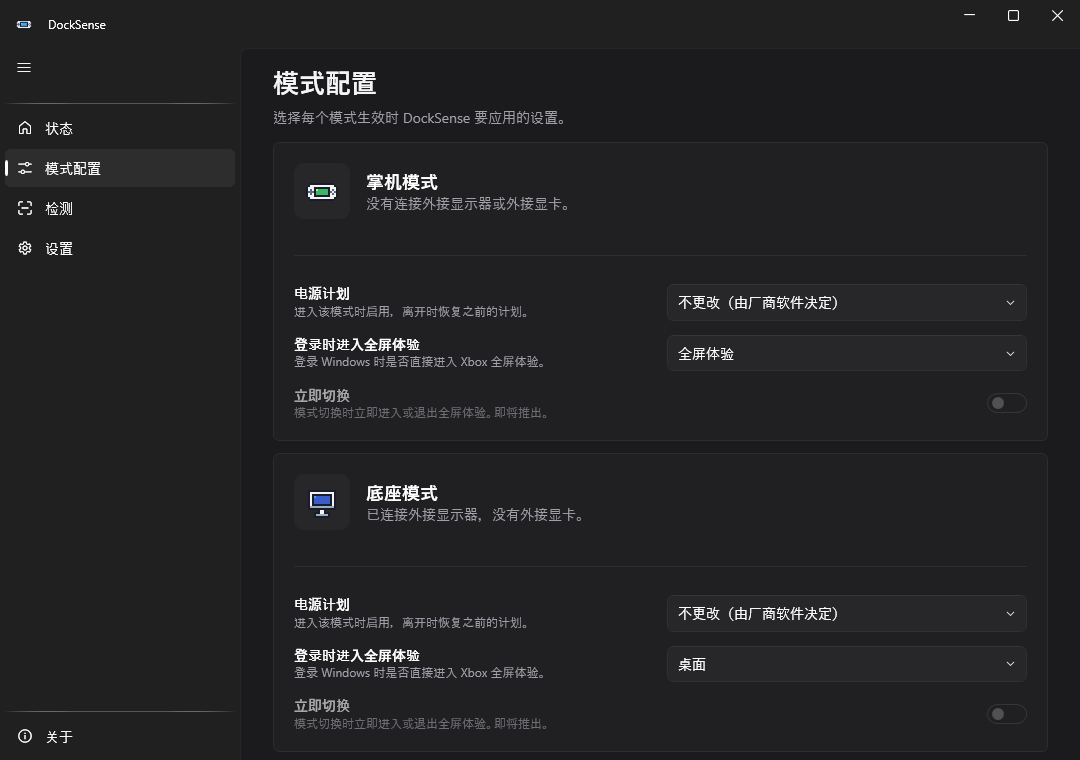
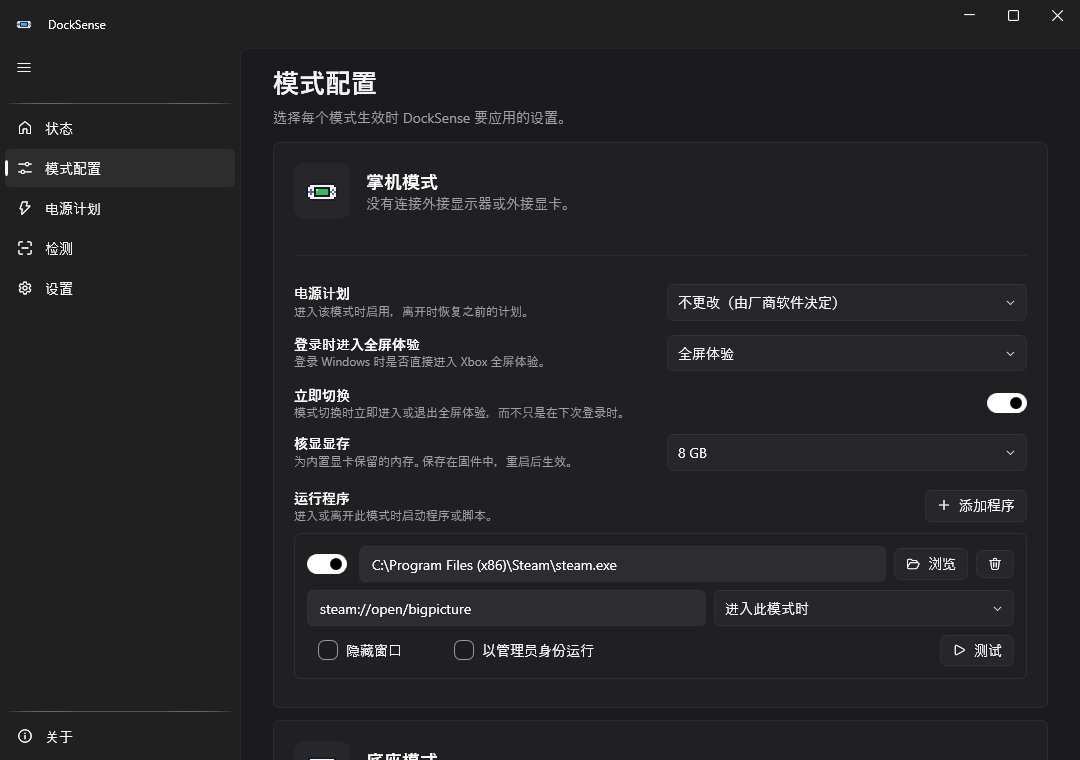
Release v0.2
CHANGELOG entry, both READMEs (features, usage, configuration keys, FAQ,
roadmap), new screenshots in English and Chinese including the Power plans
page, and version 0.2.0.

diff --git a/README.md b/README.md
@@ -22,7 +22,7 @@
 
 ---
 
-DockSense lives in your system tray. It watches for external GPUs, external displays and power changes, works out how your handheld is being used, and applies the matching **power plan** and **Xbox full screen experience** setting. You don't have to switch anything by hand when you dock or undock.
+DockSense lives in your system tray. It watches for external GPUs, external displays and power changes, and works out how your handheld is being used. Then it applies the matching **power plan** and **Xbox full screen experience**, sets the **iGPU memory** and starts **your own programs**. You don't have to switch anything by hand when you dock or undock.
 
 It started with one bug hunt: an ASUS ROG Xbox Ally X docked to an RTX 5090 was stuck at ~50 FPS with the CPU throttled to **2 GHz / 12 W**, and only while a game was in the foreground.
 
@@ -68,11 +68,14 @@ The overrides are only provisioned for *Balanced*-type plans, and `powercfg` can
 - 🔌 **Automatic mode detection.** Handheld, Docked (external display) or eGPU (Thunderbolt / USB4 / OCuLink), with debouncing so a dock being plugged in or out never causes flapping.
 - ⚡ **Per-mode power plans.** DockSense restores your previous plan when a mode ends, and creates an "eGPU-safe" plan that is immune to the Game Mode throttle.
 - 🛡 **Keeps the plan you chose.** If vendor software (e.g. Armoury Crate) switches the plan back, DockSense re-applies it, and it backs off if something keeps fighting.
-- 🎮 **Xbox full screen experience per mode.** For example, boot into the full screen experience as a handheld and into the desktop when docked.
+- 🛠 **Power plan editor.** Create plans from any existing plan, edit the settings that matter on a handheld (processor state, EPP, boost mode, max frequency, core preference, display and sleep timeouts) for plugged-in and on-battery use, and rename or delete plans. Hidden High Performance-type plans are listed too.
+- 🎮 **Xbox full screen experience per mode.** For example, use the full screen experience as a handheld and the desktop when docked. DockSense can switch it **right away** when the mode changes, not only at the next sign-in.
+- 🚀 **Run programs on mode changes.** Start a program, script or URL when a mode begins or ends (or when DockSense starts in it), with arguments, a hidden window or administrator rights.
+- 🧠 **iGPU memory per mode** (ASUS handhelds such as the ROG Xbox Ally X). For example, give the built-in GPU 8 GB as a handheld and the minimum with an eGPU, so games get that RAM back. The firmware applies it at the next restart, and DockSense tells you when one is needed.
 - 🔔 **Native Windows notifications** when the mode changes, showing the detected GPU and the plan that was applied.
 - 🩺 **Diagnostics.** The status page shows whether the Game Mode throttle affects your current plan. A one-click report lists adapters, displays, plans and hidden overrides.
 - 🌐 **English and 简体中文**, light and dark theme, and pixel-art tray icons for every state.
-- 🪶 **No admin rights, no driver, no service.** It uses only documented Windows power and device APIs.
+- 🪶 **No admin rights, no driver, no service.** It uses documented Windows APIs, plus the ASUS ACPI interface (the one Armoury Crate uses) for the optional iGPU memory setting.
 
 ## How it works
 
@@ -86,7 +89,7 @@ flowchart LR
     G --> W["Settle<br/>(default 5 s)"]
     D --> W
     H --> W
-    W --> A["Apply profile<br/>power plan · full screen experience"]
+    W --> A["Apply profile<br/>power plan · full screen experience<br/>iGPU memory · programs"]
     A --> N["Notification"]
 ```
 
@@ -105,8 +108,12 @@ Some details:
 
 <table>
   <tr>
-    <td width="50%"><img src="docs/images/profiles.png" alt="Mode profiles" /><p align="center"><b>Mode profiles</b>: power plan and full screen experience per mode</p></td>
-    <td width="50%"><img src="docs/images/settings.png" alt="Settings" /><p align="center"><b>Settings</b>: language, theme, startup, notifications</p></td>
+    <td width="50%"><img src="docs/images/profiles.png" alt="Mode profiles" /><p align="center"><b>Mode profiles</b>: power plan, full screen experience, iGPU memory and programs per mode</p></td>
+    <td width="50%"><img src="docs/images/plans.png" alt="Power plans" /><p align="center"><b>Power plans</b>: create, edit and delete plans</p></td>
+  </tr>
+  <tr>
+    <td><img src="docs/images/settings.png" alt="Settings" /><p align="center"><b>Settings</b>: language, theme, startup, notifications</p></td>
+    <td></td>
   </tr>
   <tr>
     <td><img src="docs/images/toast.png" alt="Notification" /><p align="center"><b>Notification</b> when the mode changes</p></td>
@@ -140,10 +147,12 @@ Some details:
 
 - **Tray icon:** left-click opens the window. Right-click lets you pause automatic switching, re-check now, or exit.
 - **Status:** the current mode, the active plan, the Game Mode check, detected adapters and displays, and recent activity.
-- **Mode profiles:** pick the power plan and the full screen experience behavior for each mode. The choices are:
-  - *Don't change*: your vendor software decides
-  - *DockSense Performance*: the eGPU-safe plan
-  - any existing Windows plan
+- **Mode profiles:** for each mode, pick:
+  - the power plan: *Don't change* (your vendor software decides), *DockSense Performance* (the eGPU-safe plan), or any Windows plan, including hidden ones
+  - the full screen experience at sign-in, and whether to **switch immediately** when the mode changes
+  - the **iGPU memory** (on supported ASUS devices; applies after a restart)
+  - **programs to run** when the mode begins or ends. **Test** starts one right away.
+- **Power plans:** create a plan from any existing one (High performance-based plans avoid the Game Mode throttle), edit its plugged-in and on-battery settings, rename or delete it.
 - **Detection:** settle time, "Docked only when plugged in", and per-adapter overrides (*Always / Never an eGPU*).
 
 Closing the window keeps DockSense running in the tray. Launching DockSense.exe again brings the window back.
@@ -156,6 +165,9 @@ Settings are saved to `%APPDATA%\DockSense\config.json`, and the UI edits this f
 |---|---|---|
 | `handheld` / `docked` / `egpu` → `powerPlan.kind` | `Unmanaged` / `Unmanaged` / `DockSensePerformance` | `Unmanaged`, `DockSensePerformance` or `Specific` (with `planId`) |
 | `handheld` / `docked` / `egpu` → `fse` | `FullScreenExperience` / `Desktop` / `Desktop` | `Unchanged`, `Desktop` or `FullScreenExperience`, applied at the next sign-in |
+| `handheld` / `docked` / `egpu` → `fseApplyImmediately` | `false` | Also enter or leave the full screen experience as soon as the mode changes |
+| `handheld` / `docked` / `egpu` → `igpuMemoryMb` | `null` | iGPU memory in MB to store in the firmware (`0` = Auto, `null` = don't change). Applies after a restart |
+| `handheld` / `docked` / `egpu` → `programs` | `[]` | Programs to start: `path`, `arguments`, `when` (`Enter`, `EnterOrStartup` or `Leave`), `hidden`, `runAsAdministrator`, `enabled` |
 | `detection.settleSeconds` | `5` | How long a new mode must stay stable before it is applied |
 | `detection.dockedRequiresAcPower` | `false` | Count external displays only while plugged in |
 | `detection.forceEgpuInstanceIds` / `ignoreGpuInstanceIds` | `[]` | Per-adapter overrides (PnP instance IDs) |
@@ -179,7 +191,19 @@ Tested it on another device? Please [open an issue](https://github.com/rozx/Dock
 <details>
 <summary><b>I can't find "DockSense Performance" in Control Panel.</b></summary>
 
-On Modern Standby devices, Windows hides High Performance-type plans from Control Panel and `powercfg /list`. The plan exists and works. Check `powercfg /getactivescheme`, or look at the Status page.
+On Modern Standby devices, Windows hides High Performance-type plans from Control Panel and `powercfg /list`. The plan exists and works. DockSense's **Power plans** page lists every plan, hidden ones included. You can also check `powercfg /getactivescheme` or the Status page.
+</details>
+
+<details>
+<summary><b>Why does the iGPU memory need a restart?</b></summary>
+
+The memory reserved for the built-in GPU (the UMA frame buffer) is set by the firmware while the PC starts, the same as in Armoury Crate. DockSense stores the size for the current mode right away. Status then shows the new size as pending, with a **Restart now** button. DockSense never restarts on its own, and it only writes sizes that the firmware itself offers. If you unplug an eGPU and keep playing without restarting, the old size stays in effect until the next restart. Most games run fine either way, because Windows also lends the iGPU shared memory.
+</details>
+
+<details>
+<summary><b>Switching the full screen experience right away doesn't work.</b></summary>
+
+It needs a Windows build with the full screen experience (Windows 11 on a handheld, or with "Xbox mode" enabled) and a home app (the Xbox app, or a launcher such as AnyFSE). If Windows asks for confirmation, choose to start without restarting. When Windows is set to *Restart to optimize* on entering, DockSense won't switch live, because that would restart the PC; the setting still applies at the next sign-in.
 </details>
 
 <details>
@@ -197,9 +221,9 @@ No. That was the old workaround. With an eGPU connected, DockSense uses a plan t
 <details>
 <summary><b>How do I uninstall DockSense completely?</b></summary>
 
-1. Turn off **Start with Windows**, then exit from the tray.
-2. Delete the DockSense folder, plus `%APPDATA%\DockSense` and `%LOCALAPPDATA%\DockSense`.
-3. Optionally remove the plan with `powercfg /delete <guid>`. The GUID is `dockSensePerformancePlanId` in `config.json`.
+1. Optionally delete the DockSense Performance plan on the **Power plans** page while it isn't active (Windows can't delete the active plan). `powercfg /delete <guid>` works too; the GUID is `dockSensePerformancePlanId` in `config.json`.
+2. Turn off **Start with Windows**, then exit from the tray.
+3. Delete the DockSense folder, plus `%APPDATA%\DockSense` and `%LOCALAPPDATA%\DockSense`.
 </details>
 
 <details>
@@ -222,8 +246,8 @@ dotnet run --project src/DockSense.App
 
 | Project | Purpose |
 |---|---|
-| `src/DockSense.Core` | Platform-independent logic: mode resolution, debouncing, power plan policy, config (fully unit tested) |
-| `src/DockSense.App` | WPF tray app: Windows APIs (SetupAPI, display config, powrprof), UI, notifications |
+| `src/DockSense.Core` | Platform-independent logic: mode resolution, debouncing, power plan policy, program triggers, power setting catalog, iGPU memory decoding, config (fully unit tested) |
+| `src/DockSense.App` | WPF tray app: Windows APIs (SetupAPI, display config, powrprof, gaming experience), ASUS ACPI, UI, notifications |
 | `tests/DockSense.Core.Tests` | xUnit tests, including the measured Ally X / XG Mobile unplug sequence |
 | `tools/DockSense.IconGen` | Generates every icon from the pixel-art grids in `Sprites.cs` |
 
@@ -241,8 +265,12 @@ GitHub Actions then reads the version from the branch name, runs the tests, buil
 
 ## Roadmap
 
-- [ ] Switch the full screen experience live when the mode changes, not only at sign-in
+- [x] Switch the full screen experience live when the mode changes, not only at sign-in (v0.2)
+- [x] Power plan editor (v0.2)
+- [x] Run programs on mode changes (v0.2)
+- [x] iGPU memory per mode on ASUS handhelds (v0.2)
 - [ ] Per-mode TDP via vendor interfaces (ASUS, Lenovo, ...)
+- [ ] iGPU memory on other vendors' handhelds
 - [ ] Per-game profiles
 - [ ] winget / Microsoft Store distribution
 - [ ] Code signing

diff --git a/CHANGELOG.md b/CHANGELOG.md
@@ -2,6 +2,21 @@
 
 All notable changes to DockSense are documented here. The format follows [Keep a Changelog](https://keepachangelog.com/en/1.1.0/).
 
+## [0.2] - 2026-11-09
+
+### Added
+
+- **Switch the Xbox full screen experience right away** when the mode changes, not only at the next sign-in (Mode profiles → *Switch immediately*). It uses the Windows gaming experience API, so no keyboard shortcut is simulated. DockSense never enters the full screen experience live when Windows is set to restart the PC to do so.
+- **Power plans page.** Create a plan from any existing plan, rename and delete plans, and edit the plugged-in and on-battery values of the settings that matter on a handheld: minimum and maximum processor state, energy performance preference, boost mode, maximum frequency, core preference on hybrid CPUs, and display and sleep timeouts. Each plan shows its type, whether it is active, which modes use it, and whether the Game Mode throttle affects it.
+- **Run programs on mode changes.** Each mode profile can start programs, scripts or URLs when the mode begins or ends, or when DockSense starts in it. Arguments, a hidden window and administrator rights are supported, and **Test** starts an entry right away.
+- **iGPU memory per mode** on ASUS handhelds whose firmware offers it, such as the ROG Xbox Ally X. DockSense stores the size through the same ACPI interface Armoury Crate uses, and only writes sizes the firmware lists. It applies at the next restart: Status shows the pending size with a **Restart now** button, and a notification tells you. DockSense never restarts by itself.
+- Status shows whether the full screen experience is active right now and the current iGPU memory.
+- The diagnostic report lists every power plan with its type, the live full screen experience state and the iGPU memory options.
+
+### Changed
+
+- Mode profiles can use hidden High Performance-type plans too, including plans created on the Power plans page.
+
 ## [0.1] - 2026-11-08
 
 First public release.
@@ -20,4 +35,5 @@ First public release.
 - `DockSense.exe --probe <file>` read-only diagnostic report, and a **Copy diagnostic report** button.
 - Write-up of the Game Mode CPU throttle in [docs/game-mode-throttle.md](docs/game-mode-throttle.md).
 
+[0.2]: https://github.com/rozx/DockSense/releases/tag/v0.2
 [0.1]: https://github.com/rozx/DockSense/releases/tag/v0.1
